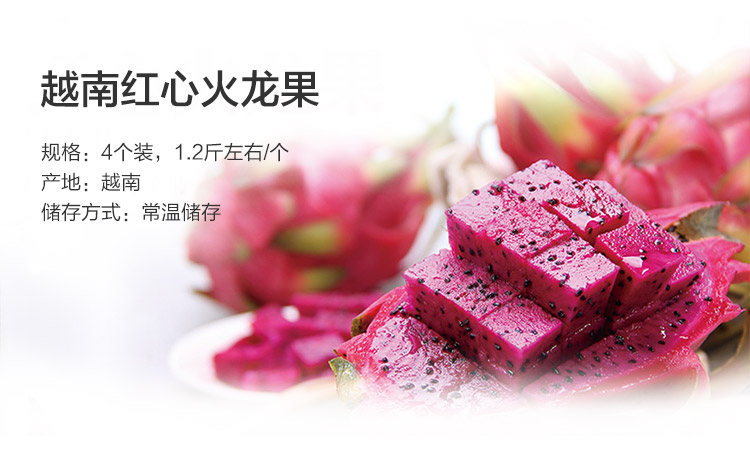
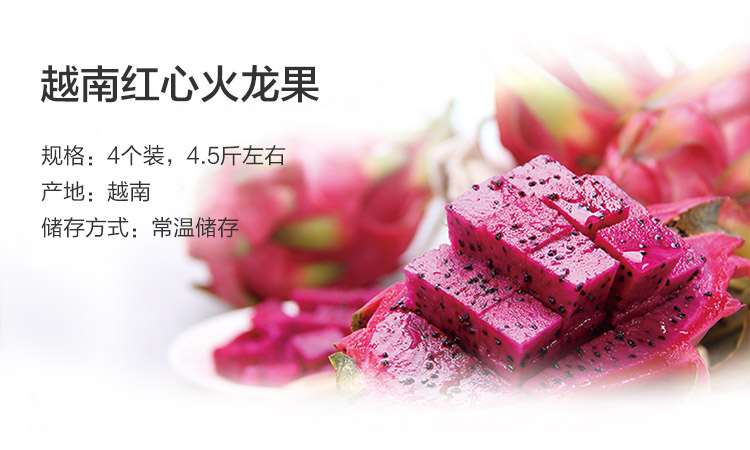
update pin tuan tip text

diff --git a/app/View/Themed/3g/pintuan/detail.html b/app/View/Themed/3g/pintuan/detail.html
@@ -15,7 +15,7 @@
     <label>{{$conf['share_label']}}</label>
 </div>
 <div class="btc_baoming">
-    <div><label>若24小时内报名数不足，在7个工作日内为您退款。<br/>2016年1月5日24点截止报名，2月6日统一发货<br/><a href="/pintuan/rule.html">玩法规则</a></label></div>
+    <div><label>若24小时内报名数不足，在7个工作日内为您退款。<br/>2016年1月5日24点截止报名，1月6日统一发货<br/><a href="/pintuan/rule.html">玩法规则</a></label></div>
     {{if !empty($tag_id)}}'
         {{if $order_count > 0}}
         <ul class="clearfix">

diff --git a/app/Model/PintuanConfig.php b/app/Model/PintuanConfig.php
@@ -16,7 +16,7 @@ class PintuanConfig extends AppModel {
             'banner_img' => 'http://static.tongshijia.com/static/pintuan/images/banner.jpg',
             'sharer_id' => '633345',
             'sharer_avatar' => 'http://51daifan-avatar.stor.sinaapp.com/6333451445516765.png',
-            'share_title' => '越南红心火龙果 4个装',
+            'share_title' => '越南红心火龙果 4个装 4.5斤左右',
             'wx_title' => '[和你一起立省5元] 越南红心火龙果 4个49元，愣愣邀你吃',
             'wx_desc' => '品质棒棒嗒，好吃的要分享给大家一起吃，朋友说—朋友间分享优质美食的平台！',
             'share_label' => '来自［愣愣］的分享',
